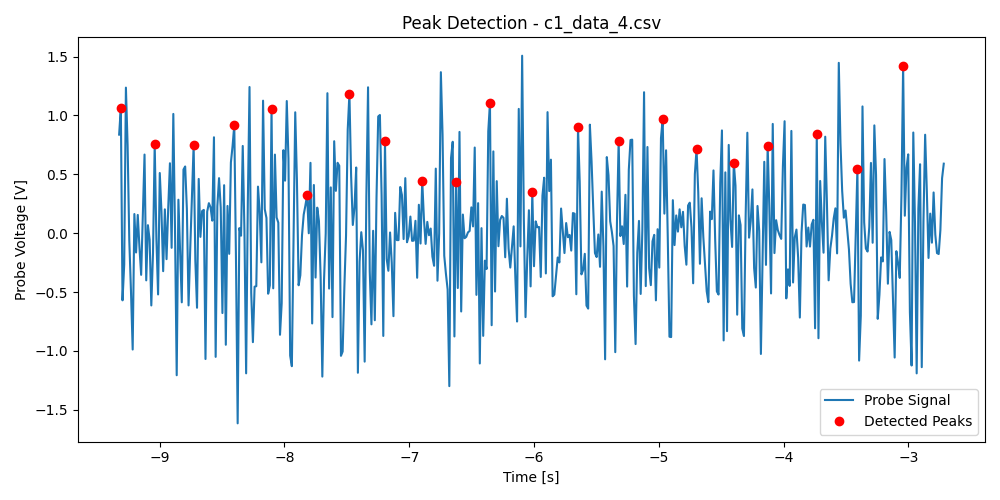
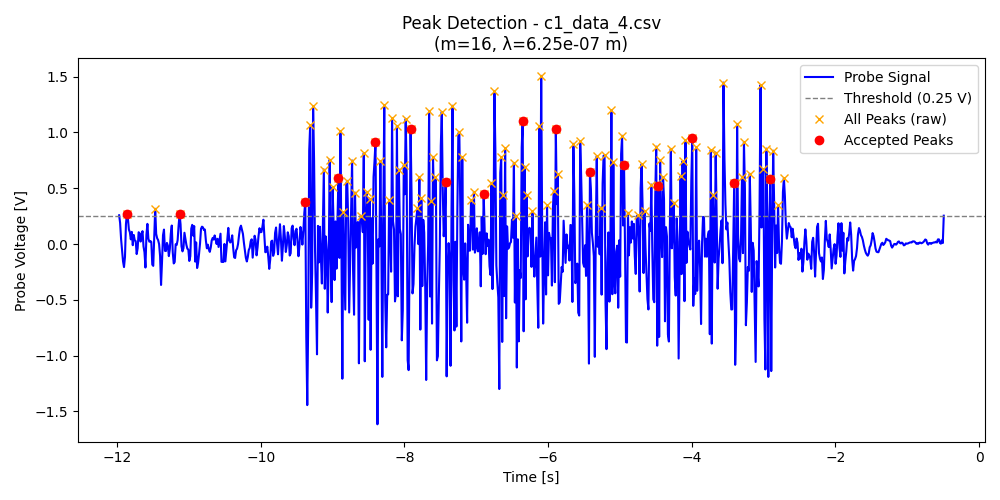
change it

diff --git a/noisefilter.py b/noisefilter.py
@@ -5,6 +5,7 @@ import os
 
 # Path difference
 d = 5e-6
+threshold = 0.25  # unified threshold (region + peak detection)
 
 # Store results
 peak_counts = []
@@ -42,10 +43,10 @@ for i in range(1, 11):
     t = data[:, 0]
     y = data[:, 1]
 
-    # ---------------- 2) Keep only strong region (y >= 0.25) ----------------
-    mask = y >= 0.5
+    # ---------------- 2) Crop to strong region (y >= threshold) ----------------
+    mask = y >= threshold
     if not mask.any():
-        print(f"No data points >= 0.25 in {filename}, skipping.")
+        print(f"No data points >= {threshold} V in {filename}, skipping.")
         continue
 
     first_idx = np.argmax(mask)
@@ -54,11 +55,11 @@ for i in range(1, 11):
     y = y[first_idx:last_idx+1]
 
     # ---------------- 3) Detect peaks above threshold ----------------
-    peaks, props = find_peaks(y, height=0.25)
+    peaks, props = find_peaks(y, height=threshold)
 
-    # ---------------- 4) Remove peaks too close together (within 0.25 s) ----------------
+    # ---------------- 4) Remove peaks too close together ----------------
     total_time = t[-1] - t[0]
-    min_sep = 0.04 * total_time   # e.g. require 4% of total duration between peaks
+    min_sep = 0.04 * total_time   # 4% of duration
 
     filtered_peaks = []
     last_time = -np.inf
@@ -76,18 +77,25 @@ for i in range(1, 11):
 
     # ---------------- 5) Plot and save ----------------
     plt.figure(figsize=(10, 5))
-    plt.plot(t, y, label="Probe Signal")
-    plt.plot(t[filtered_peaks], y[filtered_peaks], "ro", label="Detected Peaks")
+    plt.plot(t, y, label="Probe Signal", color="blue")
+
+    # Draw horizontal threshold line
+    plt.axhline(threshold, color="gray", linestyle="--", linewidth=1, 
+                label=f"Threshold ({threshold} V)")
+
+    # Plot all detected peaks (before filtering)
+    plt.plot(t[peaks], y[peaks], "x", color="orange", label="All Peaks (raw)")
+
+    # Plot filtered peaks (after min separation)
+    plt.plot(t[filtered_peaks], y[filtered_peaks], "ro", label="Accepted Peaks")
+
     plt.xlabel("Time [s]")
     plt.ylabel("Probe Voltage [V]")
-    plt.title(f"Peak Detection - {filename}")
+    plt.title(f"Peak Detection - {filename}\n(m={m}, λ={wavelength:.2e} m)")
     plt.legend()
     plt.tight_layout()
     plt.savefig(os.path.join(out_dir, f"{filename}_peaks.png"))
     plt.close()
-
-    # Print per file result
-    print(f"{filename}: peaks = {m}, wavelength = {wavelength:.3e} m")
 
 # ---------------- 6) Summary statistics ----------------
 if peak_counts:
@@ -95,12 +103,18 @@ if peak_counts:
     std_peaks = np.std(peak_counts, ddof=1)  # sample std
     stderr_peaks = std_peaks / np.sqrt(len(peak_counts))
 
+    wavelengths = np.array(wavelengths)
     avg_wavelength = np.mean(wavelengths)
-    std_wavelength = np.std(wavelengths, ddof=1)
-    stderr_wavelength = std_wavelength / np.sqrt(len(wavelengths))
+
+    # Error propagation
+    d_error = 1e-7  # error in d
+    sigma_m = stderr_peaks
+    m_avg = avg_peaks
+    stderr_wavelength = np.sqrt((2 / m_avg * d_error)**2 +
+                                (2 * d / m_avg**2 * sigma_m)**2)
 
     print("\nSummary across all files:")
     print(f"Peaks: mean = {avg_peaks:.2f}, std = {std_peaks:.2f}, stderr = {stderr_peaks:.2f}")
-    print(f"Wavelength: mean = {avg_wavelength:.3e} m, std = {std_wavelength:.3e}, stderr = {stderr_wavelength:.3e}")
+    print(f"Wavelength: mean = {avg_wavelength:.3e} m, stderr (propagated) = {stderr_wavelength:.3e} m")
 else:
     print("No valid data found across files.")
